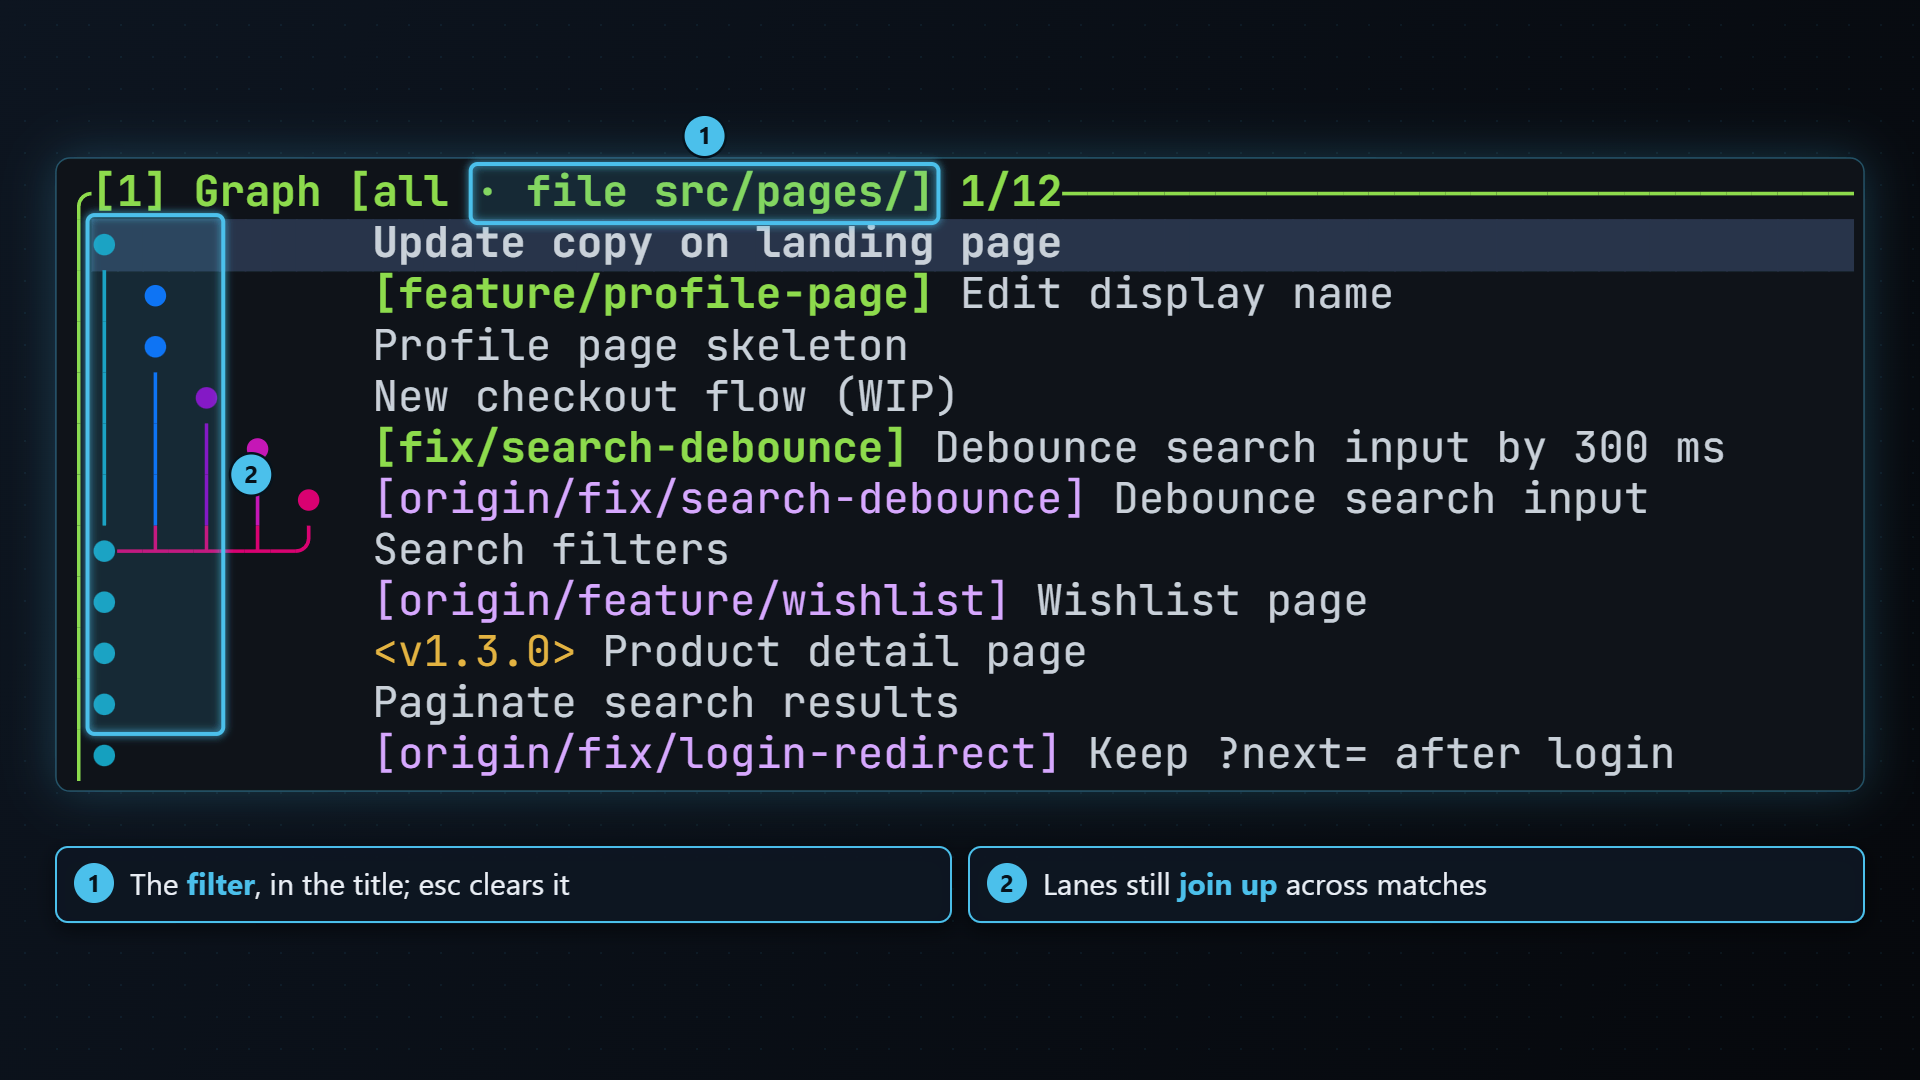
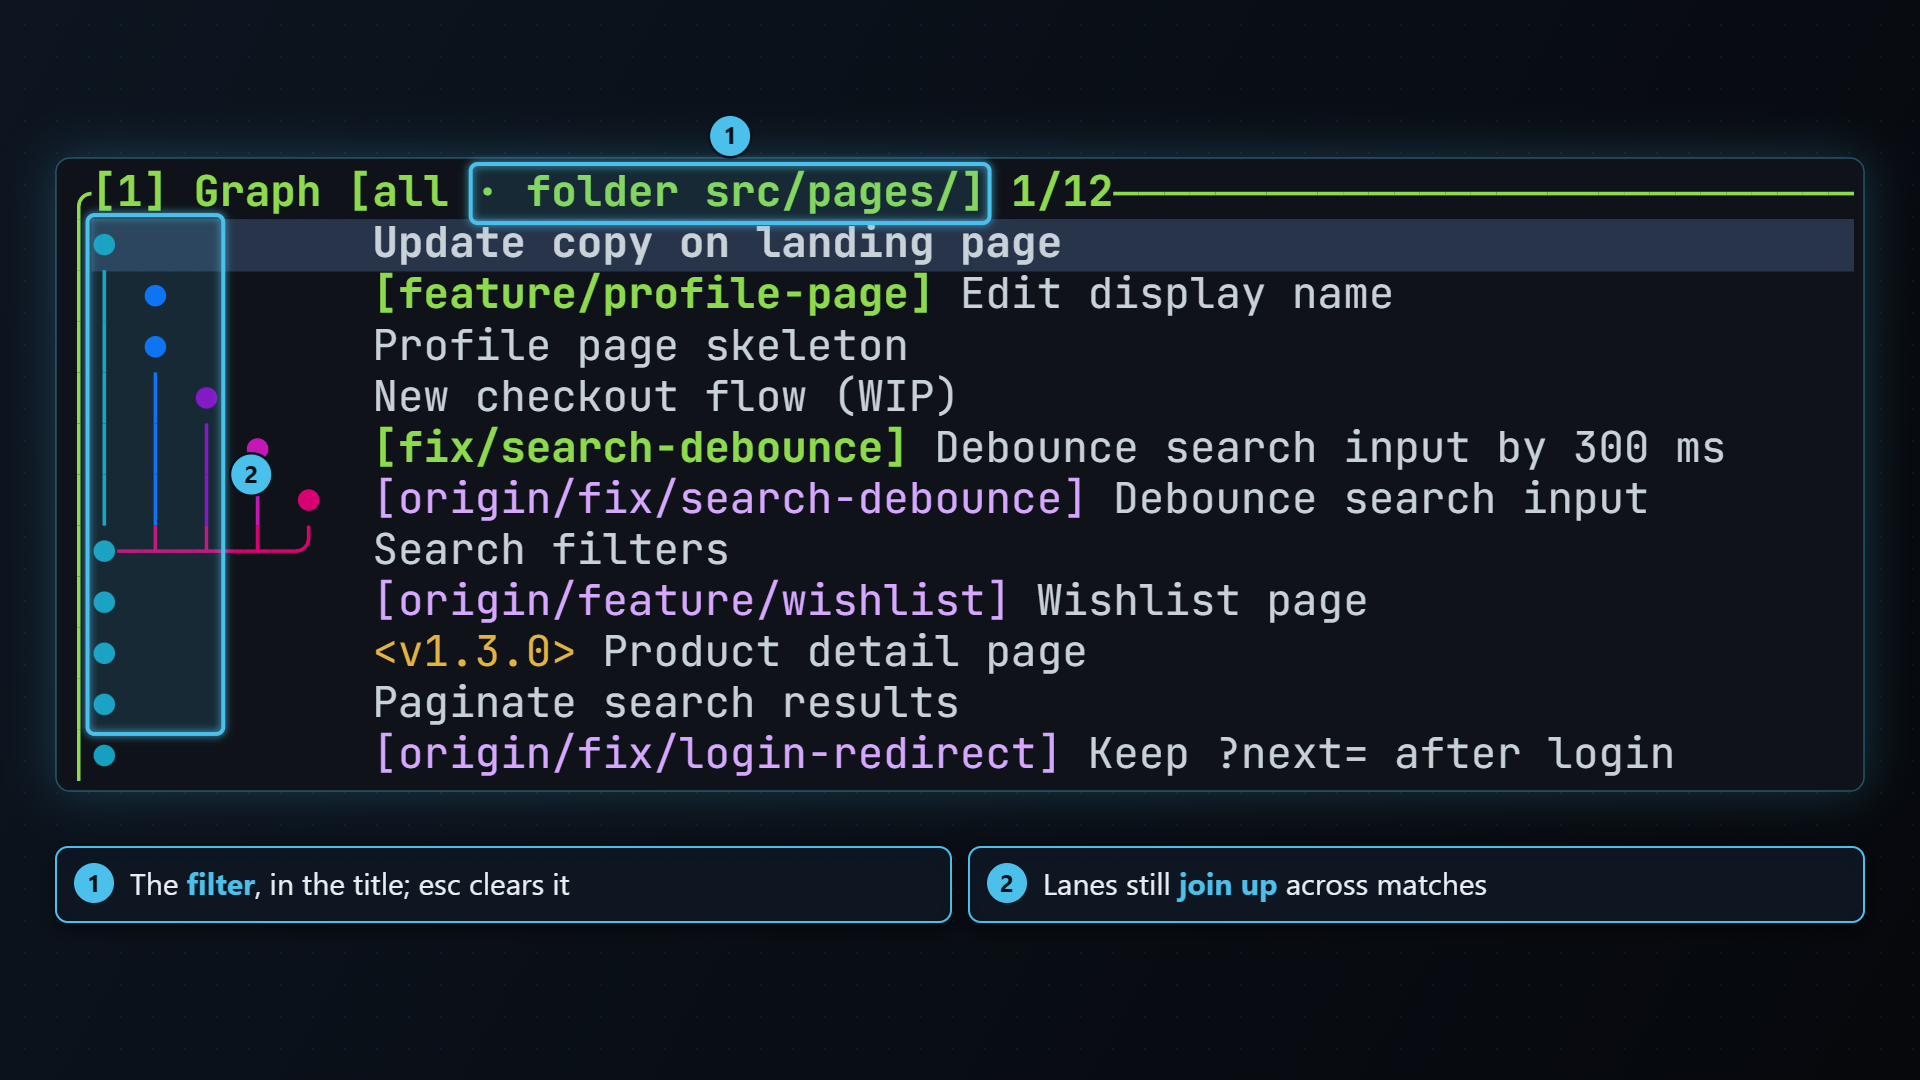
docs(graph): Describe narrowing the graph and Status to the start folder

Changed region(s): [[0.2812, 0.0917, 0.5938, 0.2139]]

diff --git a/README.md b/README.md
@@ -112,6 +112,7 @@ command palette, which lists built-in commands and plugin actions.
 | | `t` | dates as age (`3h`) ↔ local date and time (`2026-10-17 01:30 PM`) |
 | | `L` | hide / show the lanes, so each row starts with its badges and subject |
 | | `f` | filter: only one author's commits, or the commits that changed a file or folder (`tab` in the panel switches between the two; both can be set) |
+| | `.` | only the commits that changed the folder tt-git was started in (Status narrows too); again for everything |
 | | `o` | check out the selected commit: the local branch on it if there is one, else the commit with HEAD detached (with uncommitted changes, asks to stash them first) |
 | | `n` | new branch at the selected commit (`tab` in the dialog: create it in a worktree) |
 | | `T` | new tag at the selected commit (`tab` in the dialog: annotated, with a message) |
@@ -142,6 +143,7 @@ command palette, which lists built-in commands and plugin actions.
 | | `s` | stash: everything, only what's staged, only what isn't staged, everything but leave staged changes in place, or just the selected file (`tab` in the dialog picks; the message is optional) |
 | | `e` | open the file in your editor at its first change (a conflicted file: at its first conflict marker) |
 | | `b` | blame the file in the working tree: who last changed each line, when and in which commit |
+| | `.` | list only the files in the folder tt-git was started in; `a`, `D` and `s` then act on it alone |
 | | `C` / `X` | continue / abort a merge, rebase, cherry-pick or revert |
 | stash tab | `space` / `a` | pop / apply the selected stash (pop drops it once applied) |
 | | `d` | drop it (asks first) |

diff --git a/docs/plugins.md b/docs/plugins.md
@@ -145,7 +145,7 @@ Event hooks are low-volume events, each run as a fresh process:
 | `tag.created` / `tag.pushed` / `tag.deleted` | `{tag, target, annotated}` / `{tag}` / `{tag, remote}` (`remote` is null for a local-only delete) |
 | `commit.created` | `{oid, amend, summary}` |
 | `fetch.completed` / `pull.completed` / `push.completed` | `{}` / `{branch, head}` / `{branch}` |
-| `files.staged` / `files.unstaged` / `files.discarded` | `{paths}` (`"all"` for stage-all) / `{paths}` / `{path}`, plus `partial: true` when only some hunks or lines changed; discard all sends `{path: "all", scope}` with `scope` one of `everything`, `unstaged`, `unstaged_and_untracked`, `untracked` |
+| `files.staged` / `files.unstaged` / `files.discarded` | `{paths}` (`"all"` for stage-all) / `{paths}` / `{path}`, plus `partial: true` when only some hunks or lines changed; discard all sends `{path: "all", scope}` with `scope` one of `everything`, `unstaged`, `unstaged_and_untracked`, `untracked`; while Status is narrowed to a folder, stage/unstage all send `paths: ["<folder>/"]` and discard all `path: "<folder>/"` |
 | `merge.completed` / `rebase.completed` / `cherry_pick.completed` / `revert.completed` | `{target/onto/picked/reverted, head}`; cherry-pick also sends `summary` and `commits` (every hash picked, oldest first; `picked` is the last) |
 | `stash.created` / `stash.applied` / `stash.dropped` | `{message}` / `{stash, pop}` / `{stash}` |
 | `worktree.removed` | `{path, branch, force}` (`branch` null if it was detached; `force` true if removed with its changes) |

diff --git a/docs/configuration.md b/docs/configuration.md
@@ -23,6 +23,7 @@ max_lanes = 16                  # lanes drawn before collapsing into …
 current_includes_upstream = true  # current-branch mode also shows HEAD's upstream
 dates = "relative"              # graph and blame dates: "relative" (3h, 2d) or "clock" (2026-10-17 01:30 PM, local time)
 lanes = true                    # draw the lanes at startup; L in the graph toggles them
+filter_to_cwd = false           # started in a subfolder, show only its commits and Status files (. toggles; --filter-to-cwd / --no-filter-to-cwd override)
 
 [branches]
 unmerged_exclude = ["archive"]  # hide unmerged branches whose name contains any of these
@@ -235,6 +236,7 @@ Write keys as `q`, `Q`, `shift+q`, `ctrl+c`, `alt+enter`, `shift+tab`,
 | `refresh`, `push`, `pull` | `ctrl+r`, `P`, `p` | global |
 | `undo` | `z` | global |
 | `toggle_scope`, `toggle_dates`, `toggle_lanes`, `checkout`, `filter`, `new_branch`, `new_tag`, `merge`, `rebase`, `cherry_pick`, `revert`, `select_range`, `agent` | `a`, `t`, `L`, `o`, `f`, `n`, `T`, `M`, `r`, `C`, `R`, `v`, `A` | graph |
+| `filter_folder` | `.` | graph, status |
 | `checkout`, `new_branch`, `new_tag`, `delete_branch`, `rename_branch`, `fetch`, `fast_forward`, `filter`, `merge`, `rebase` | `enter`/`space`, `n`, `T`, `d`, `R`, `f`, `F`, `/`, `M`, `r` | branches |
 | `push_tag` | `P` (on the Tags tab; pushes the branch on the others) | branches |
 | `next_tab`, `prev_tab`, `pick_base` | `]` `}`, `[` `{`, `b` | branches |
